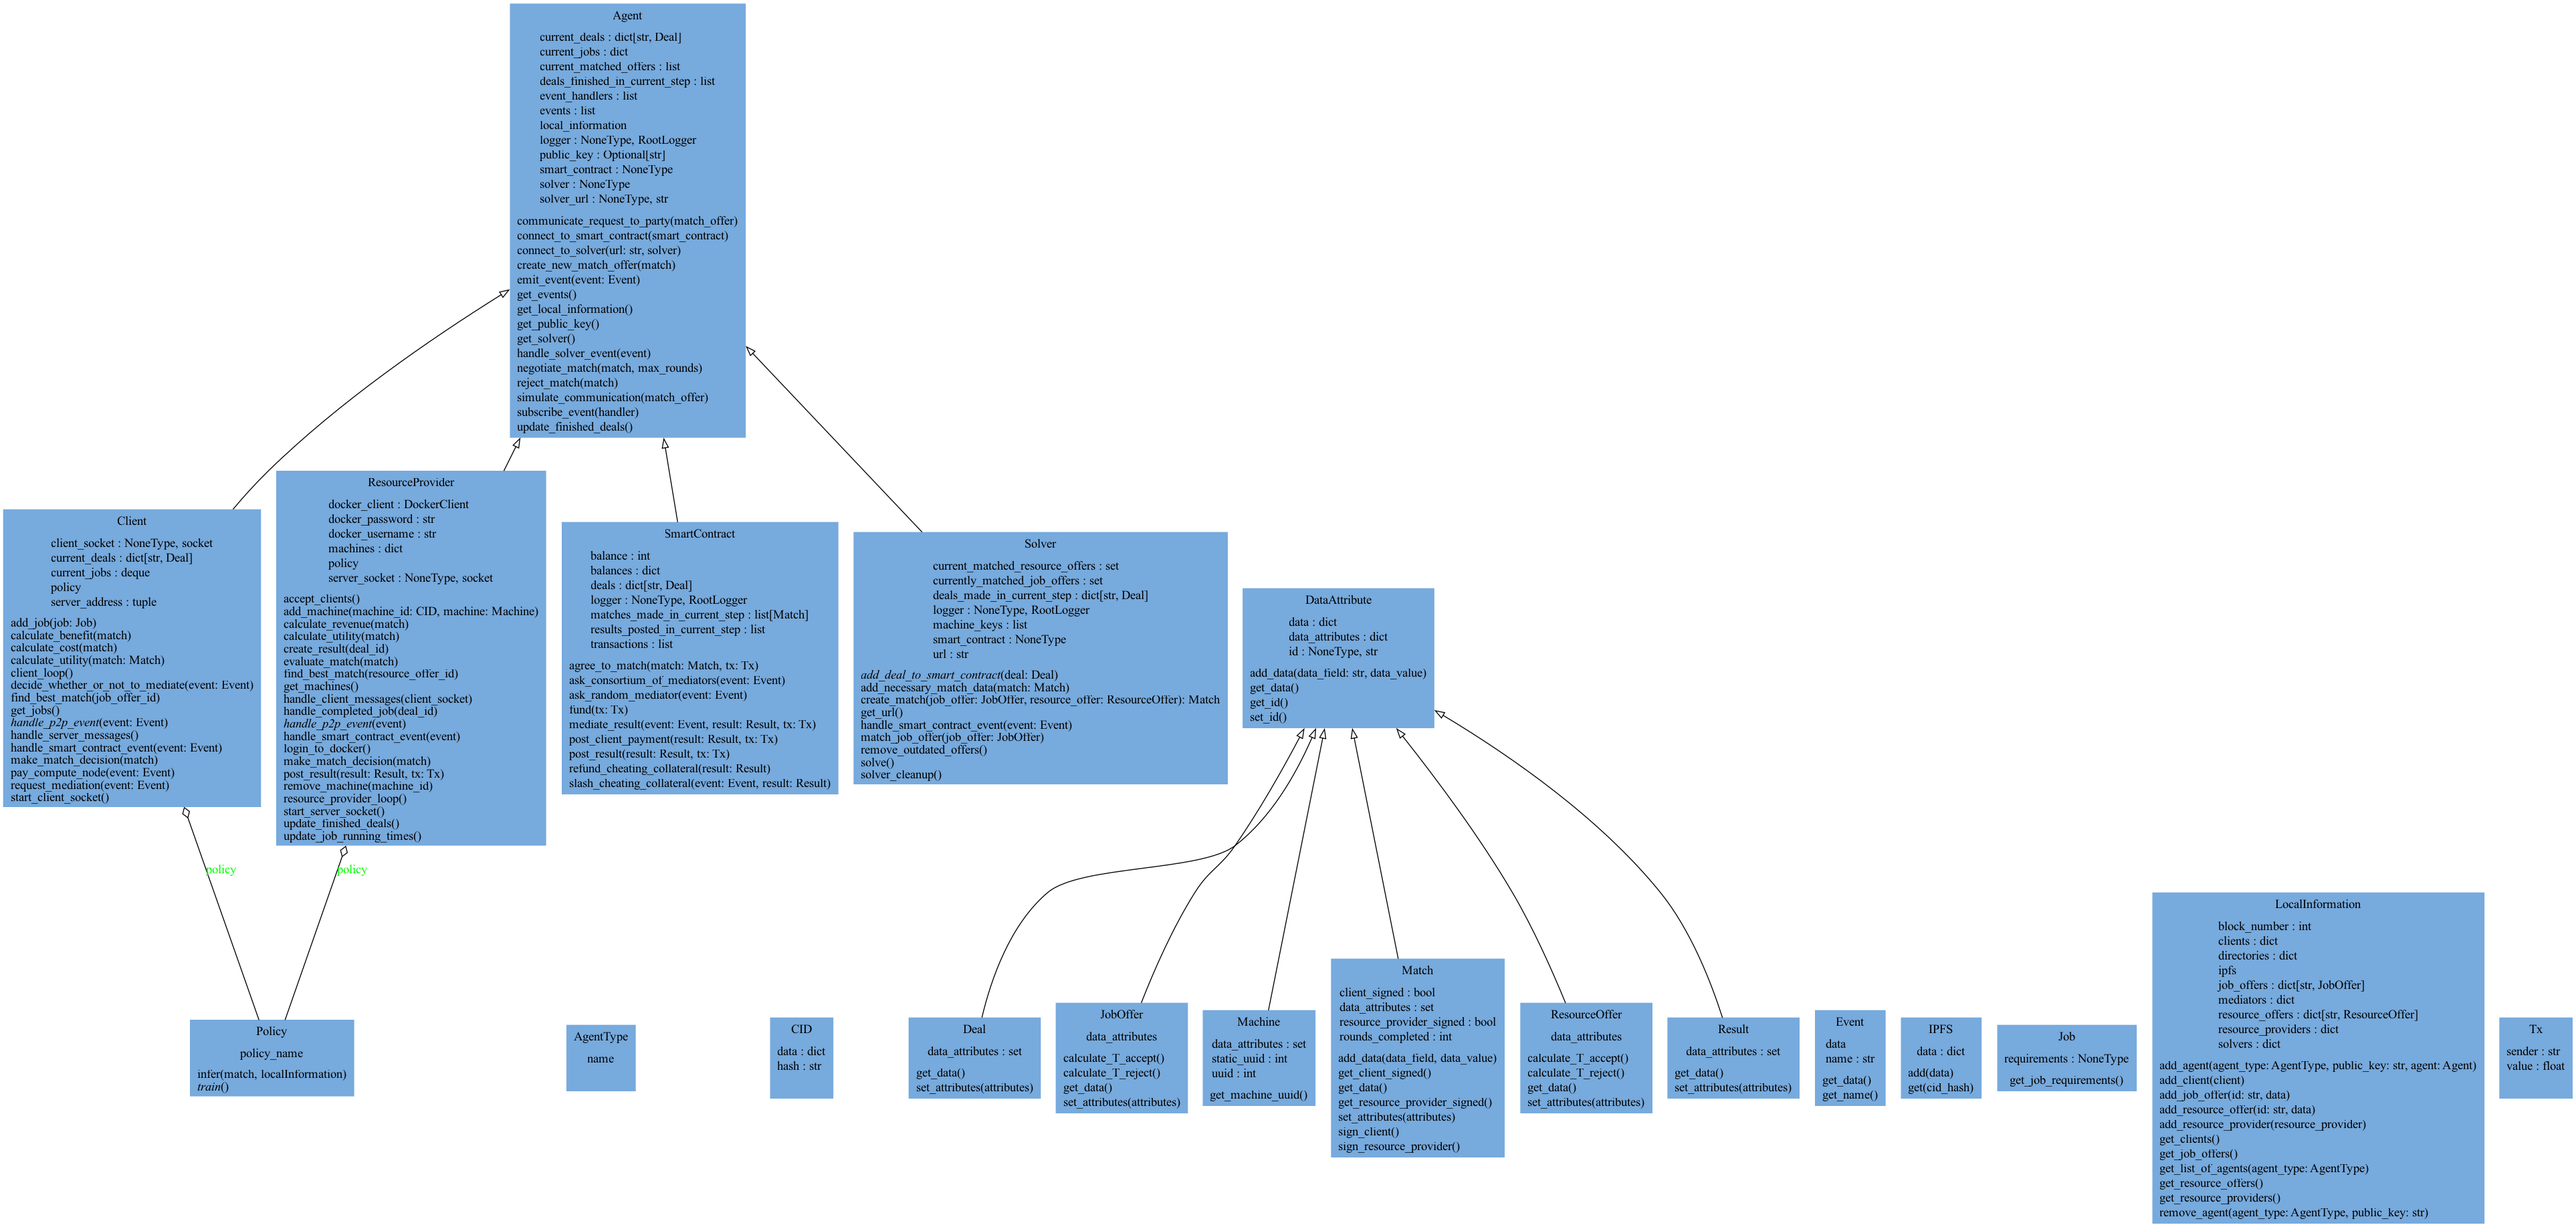
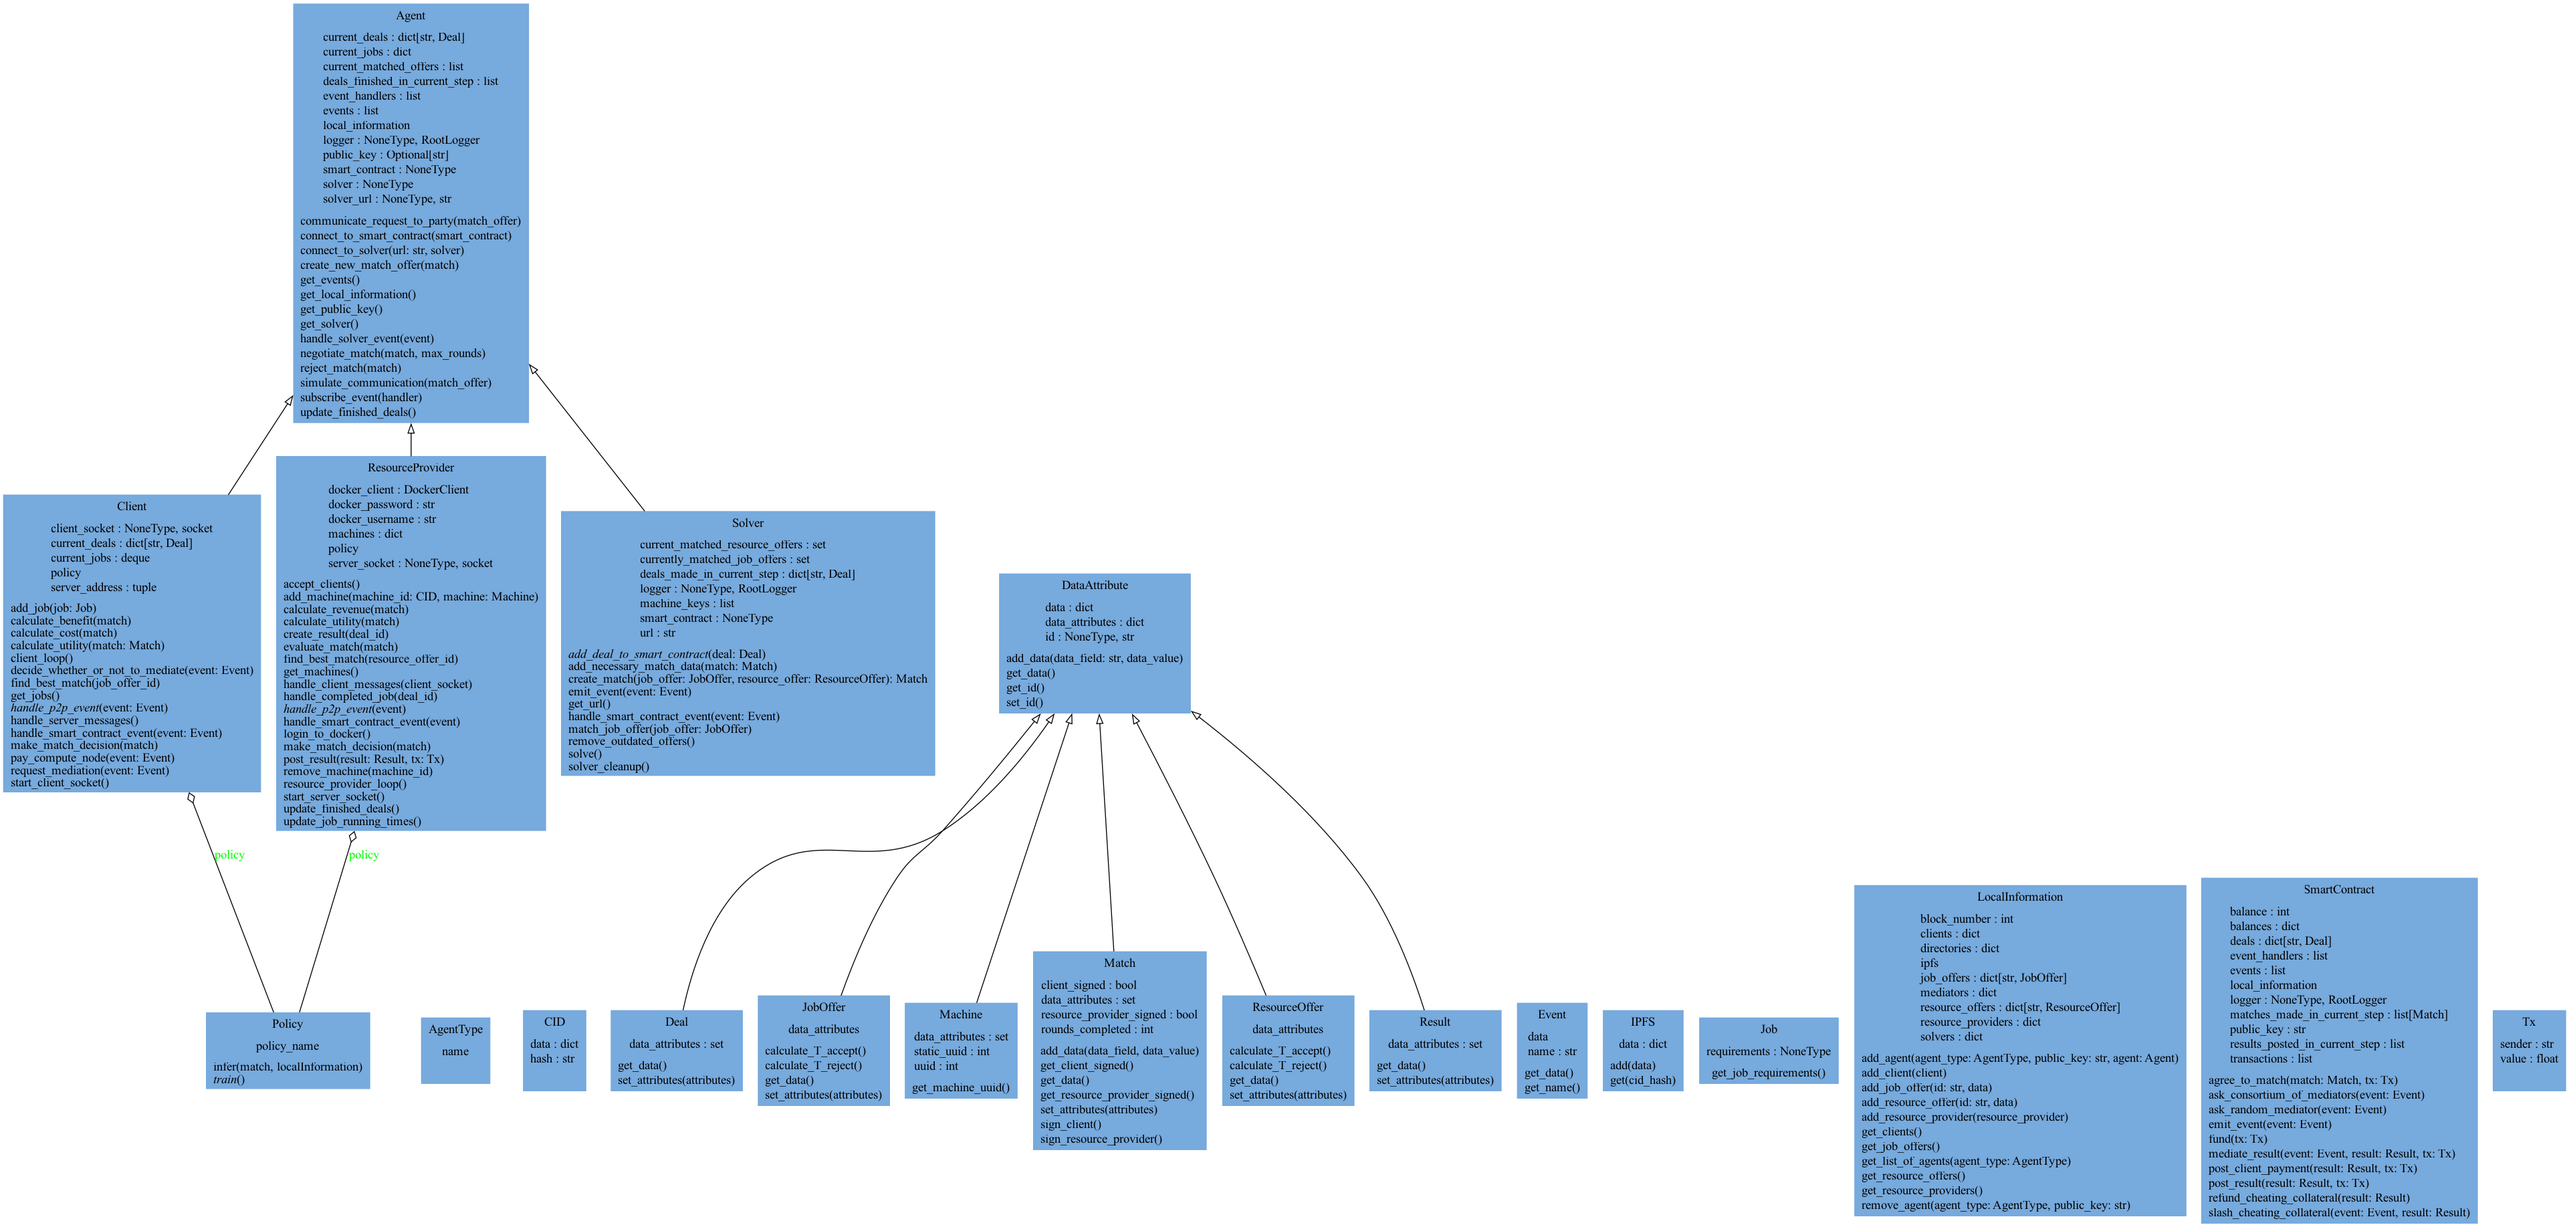
fix: remove inheritance

Changed region(s): [[0.0, 0.0, 0.5622, 0.7144], [0.0625, 0.7144, 0.9682, 1.0], [0.9682, 0.8076, 0.9995, 0.9008]]

diff --git a/coophive/agent.py b/coophive/agent.py
@@ -7,7 +7,6 @@ import logging
 import os
 
 from coophive.deal import Deal
-from coophive.event import Event
 from coophive.job_offer import JobOffer
 from coophive.log_json import log_json
 from coophive.match import Match
@@ -56,12 +55,6 @@ class Agent:
     def get_solver(self):
         """Get the connected solver."""
         return self.solver
-
-    def emit_event(self, event: Event):
-        """Emit an event and notify all subscribed event handlers."""
-        self.events.append(event)
-        for event_handler in self.event_handlers:
-            event_handler(event)
 
     def subscribe_event(self, handler):
         """Subscribe an event handler to receive emitted events."""

diff --git a/coophive/smart_contract.py b/coophive/smart_contract.py
@@ -99,6 +99,12 @@ class SmartContract:
         if match.get_resource_provider_signed() and match.get_client_signed():
             self.matches_made_in_current_step.append(match)
 
+    def emit_event(self, event: Event):
+        """Emit an event and notify all subscribed event handlers."""
+        self.events.append(event)
+        for event_handler in self.event_handlers:
+            event_handler(event)
+
     def _create_deal(self, match: Match):
         logging.info(f"Match data before setting ID: {match.get_data()}")
 

diff --git a/coophive/solver.py b/coophive/solver.py
@@ -112,6 +112,12 @@ class Solver(Agent):
         # remove outdated job and resource offers
         self.remove_outdated_offers()
 
+    def emit_event(self, event: Event):
+        """Emit an event and notify all subscribed event handlers."""
+        self.events.append(event)
+        for event_handler in self.event_handlers:
+            event_handler(event)
+
     def solve(self):
         """Solve the current matching problem by matching job offers with resource offers."""
         for job_offer_id, job_offer in (
